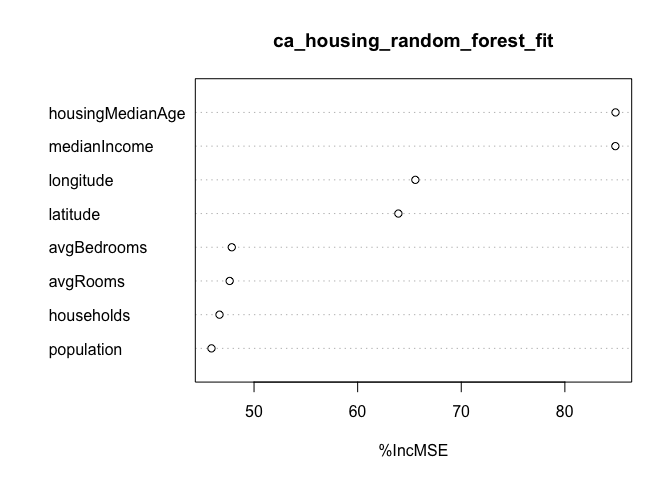
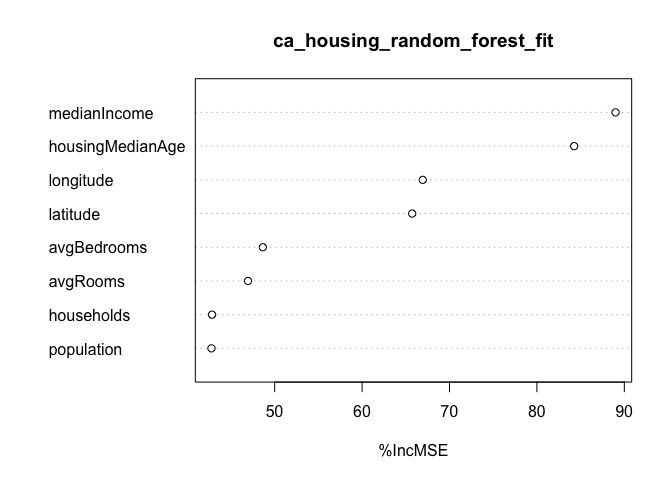
Fixed descriptions.

diff --git a/code/data_mining_ex3.md b/code/data_mining_ex3.md
@@ -127,7 +127,7 @@ dengue cases.
 
 ### RMSE of predicting the regression tree on the test set
 
-    ## [1] 28.69538
+    ## [1] 24.69662
 
 Random forest
 -------------
@@ -137,7 +137,7 @@ total dengue cases.
 
 ### RMSE of predicting random forest on the test set
 
-    ## [1] 26.35863
+    ## [1] 22.93888
 
 Gradient-Boosted Trees
 ----------------------
@@ -150,7 +150,7 @@ distribution and then built another model assuming Poisson distribution.
 
 ![](data_mining_ex3_files/figure-markdown_strict/unnamed-chunk-5-1.png)
 
-    ## [1] 67
+    ## [1] 66
 
 The figure above displays a loss function as a result of n trees added
 to the ensemble for the chosen gradient boosted machine (gbm) model .
@@ -166,7 +166,7 @@ The RMSE between the predicted total number cases of dengue from the
 chosen gbm model and the actual total number of cases of dengue from the
 test set is shown below.
 
-    ## [1] 27.84624
+    ## [1] 24.4453
 
 ### Poisson distribution
 
@@ -177,7 +177,7 @@ function above. The RMSE between the predicted total number cases of
 dengue from the chosen gbm model and the actual total number of cases of
 dengue from the test set is shown below.
 
-    ## [1] 27.20808
+    ## [1] 24.01371
 
 Since, the RMSE for the random forest model is the lowest out of all the
 models observed above, it will be utilized to create partial dependence
@@ -262,7 +262,7 @@ multiple regression on all the features except ***total\_dd\_07***, and
 The RMSE of predicting the linear model on the test set is shown below.
 
     ##   result 
-    ## 10.42577
+    ## 10.88581
 
 ### Random forest (Model of Choice)
 
@@ -276,7 +276,7 @@ set which is shown below. It can be seen that the random forest model
 performs better than the linear model based on the RMSE difference
 between the two.
 
-    ## [1] 7.118311
+    ## [1] 7.516652
 
 To identify the important variables in the random forest model, I built
 the variable importance plot shown below. It can be seen that
@@ -291,7 +291,7 @@ new model is shown below. Based on the RMSE, this model does not
 necessarily perform better than the previous random forest model;
 however, it still outperforms the multiple regression model.
 
-    ## [1] 7.107853
+    ## [1] 7.428497
 
 To quantify the average change in revenue per square foot I decided to
 build partial dependence plots (pdp) associated with green
@@ -323,8 +323,8 @@ certification.
 Hence, it can be concluded that energy certifications do not influence
 building revenue per square foot per calendar year very significantly.
 
-Problem 4:Predictive model building: California housing
-=======================================================
+Problem 4: Predictive model building: California housing
+========================================================
 
 Goal
 ----
@@ -356,7 +356,7 @@ multiple regression on all the features in the training set. The RMSE of
 predicting the linear model on the test set is shown below.
 
     ##   result 
-    ## 69989.88
+    ## 69369.46
 
 ### Random Forest
 
@@ -366,10 +366,16 @@ model and the actual revenue from the test set which is shown below. It
 can be seen that the random forest model significantly outperforms the
 linear model based on the RMSE difference between the two (~18000).
 
-    ## [1] 51979.25
+    ## [1] 51763.99
+
+Below is the variable importance plot of the random forests model.
+Observing the scale of the x-axis, it can be concluded that all of these
+variables are important in building the model. Hence, I will keep the
+model as is.
 
 ![](data_mining_ex3_files/figure-markdown_strict/unnamed-chunk-20-1.png)
-\#\#\# Gradient-Boosted Trees (Model of Choice)
+
+### Gradient-Boosted Trees (Model of Choice)
 
 I used all of the features in the training set and assumed a Gaussian
 distibution for the gradient boosted model with 10-fold
@@ -385,16 +391,19 @@ RMSE measure and arrived at the chosen parameters.
 
 ![](data_mining_ex3_files/figure-markdown_strict/unnamed-chunk-21-1.png)
 
-    ## [1] 3000
+    ## [1] 2999
 
 The RMSE between the predicted revenue and the actual revenue from the
 test set is displayed below. It is lower than that of the random forest
 model. Therefore, this model will be the model of choice.
 
-    ## [1] 47993.34
+    ## [1] 48115.14
 
 Map Plots
 ---------
+
+I used the gradient boosted model above to build three map plots shown
+below.
 
 ### Actual Median House Values
 
@@ -418,7 +427,7 @@ mostly orange data points are observed in place of red ones.
 ### Residuals
 
 The distribution of the residuals from the gbm model is shown below on
-the California map. The resisduals were calculated as differenced
+the California map. The resisduals were calculated as differences
 between predicted median house values and actual median house values.
 Blue-ish points represent negative differences, green points represent
 minimal to no differences, and red-ish points represent positive
